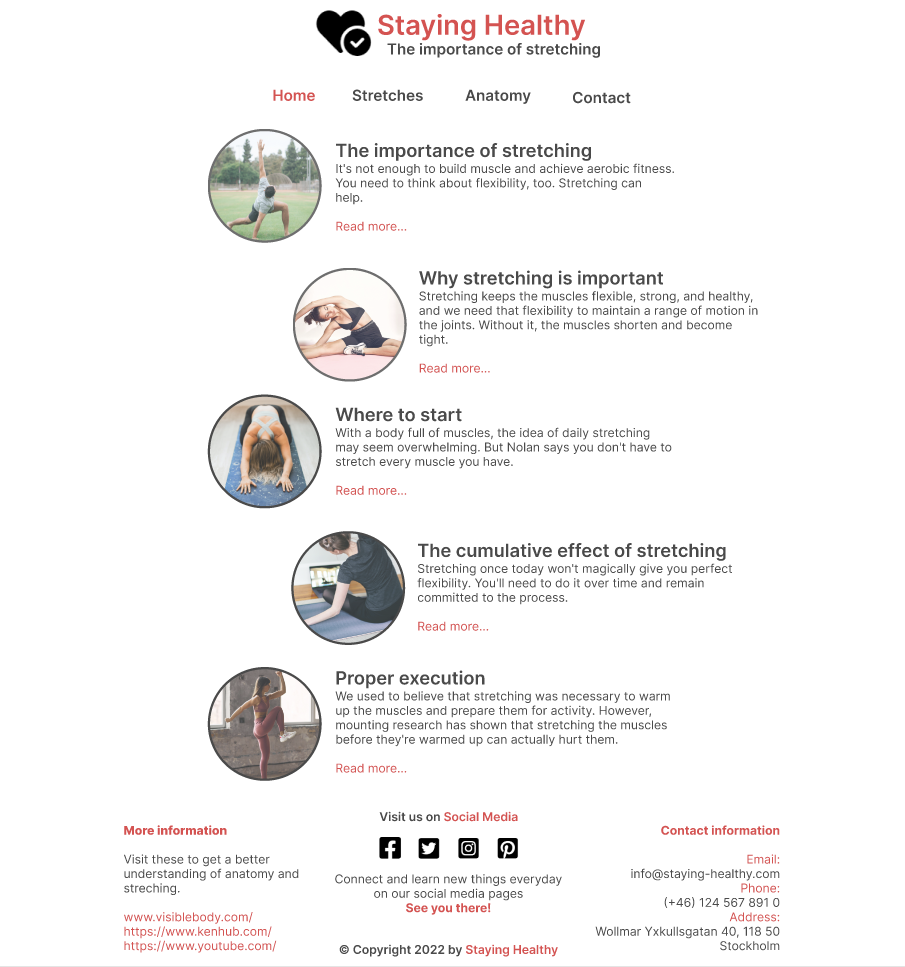
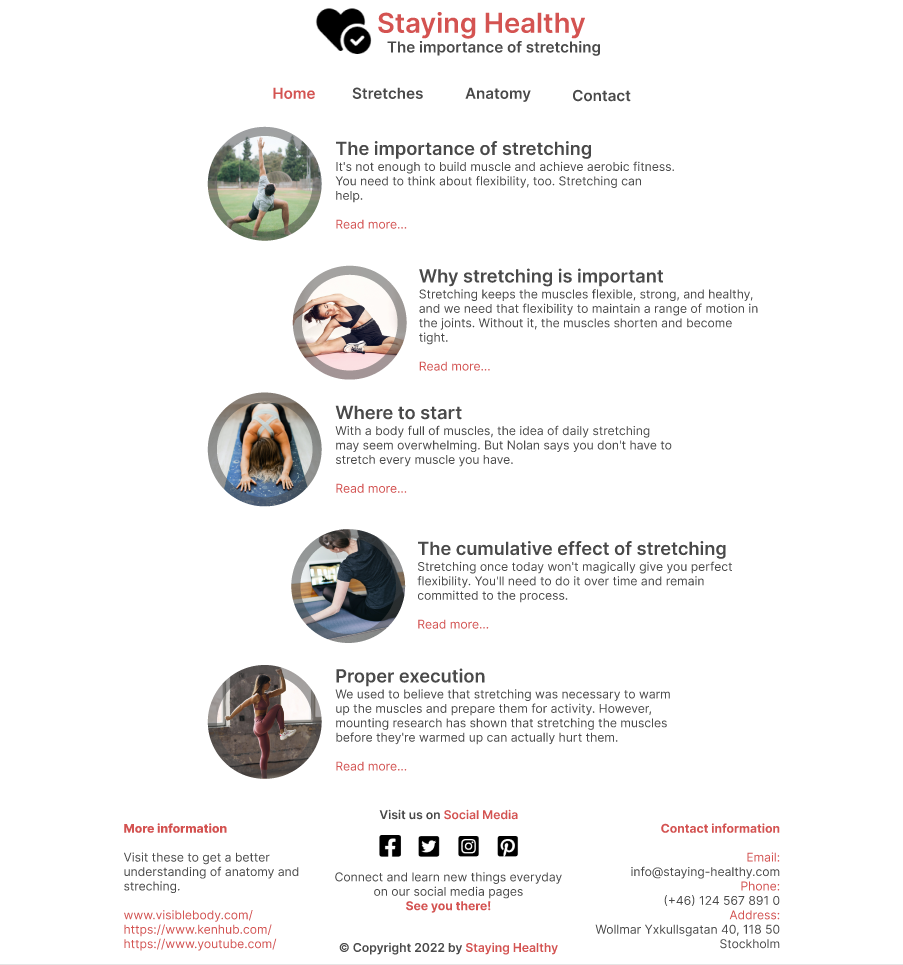
Add color scheme, typegraphy, surface stretch page update surface homepage within README.md

diff --git a/assets/css/style.css b/assets/css/style.css
@@ -17,7 +17,7 @@ header {
 
 .logo {
     text-align: center;
-    font-size: 400%;
+    font-size: 800%;
 }
 
 .logo h1 {
@@ -30,13 +30,11 @@ header {
 
 
 .navigation {
-    background-color: blue;
     width: 100%;
     height: 75px;
 }
 
 .content {
-    background-color: green;
     width: 100%;
     height: 400px;
 }

diff --git a/README.md b/README.md
@@ -77,9 +77,28 @@ How the information should be implemented, and how will the user navigate throug
 ### Surface
 The surface sketches was made using [Figma](https://www.figma.com/)
 
+Typography:
+"Poppins" for Text
+"Oswald" for Headers
+
+Color scheme:
+
+**#DC5454** <br>
+![Surface made using Figma](../staying-healthy/assets/images/readme-files/dc5454.png)
+
+**#4A4A4A** <br>
+![Surface made using Figma](../staying-healthy/assets/images/readme-files/4a4a4a.png)
+
+
 <details><summary>Home Page made with Figma</summary>
 
 ![Surface made using Figma](../staying-healthy/assets/images/readme-files/home-page.png)
+
+</details>
+
+<details><summary>Stretch Page made with Figma</summary>
+
+![Surface made using Figma](../staying-healthy/assets/images/readme-files/stretch-page.png)
 
 </details>
 
